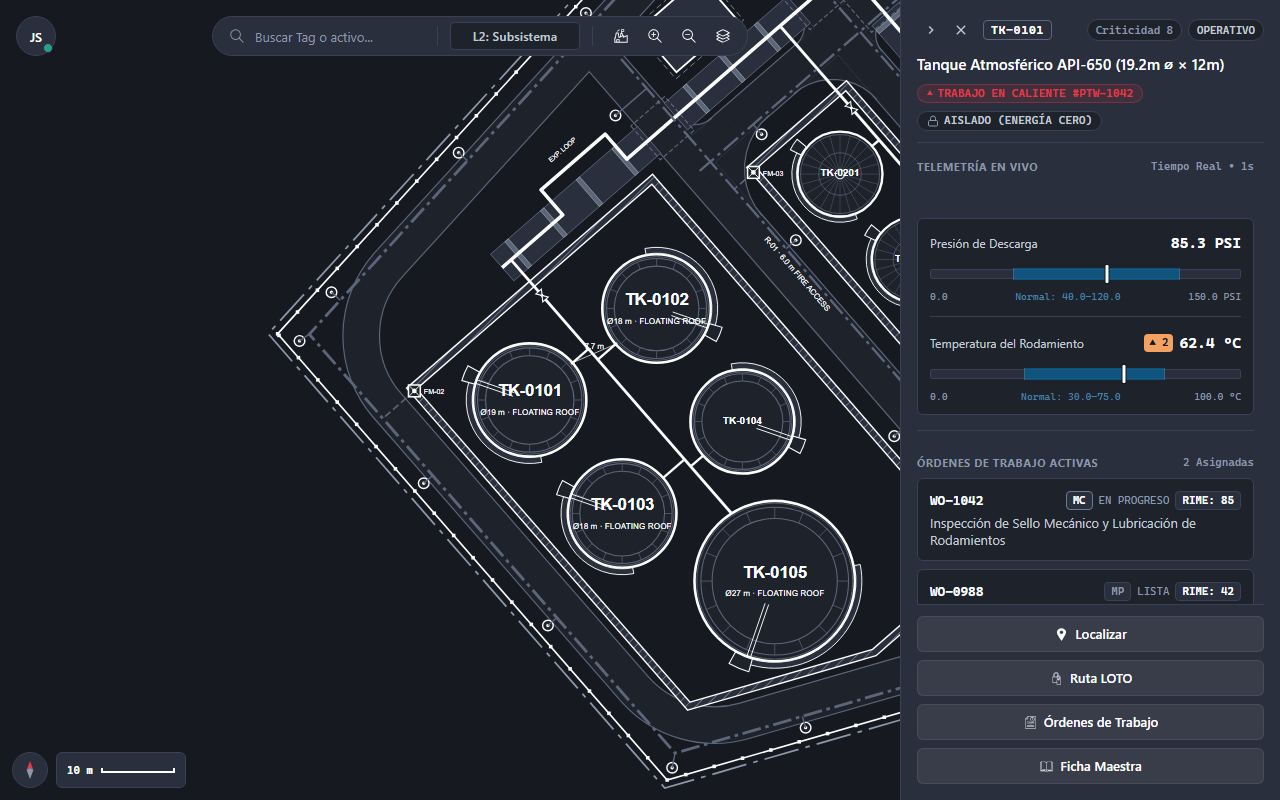
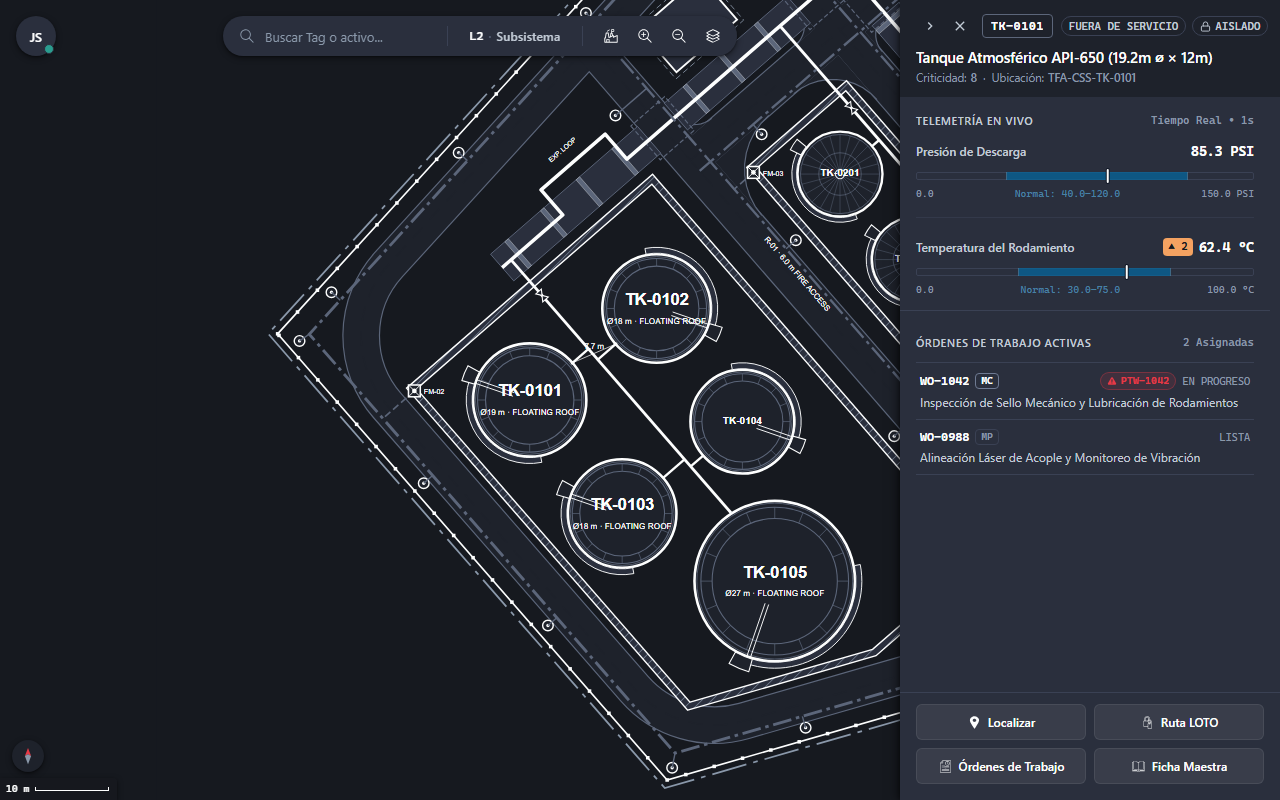
docs(ui-ux): synchronize SCR-VIS-033 specification, elevation tokens, and visual assets

diff --git a/ui-ux/assets/tokens.css b/ui-ux/assets/tokens.css
@@ -117,6 +117,7 @@
   --dt-radius-md: 6px;
   --dt-radius-lg: 8px;
   --dt-radius-xl: 12px;
+  --dt-radius-2xl: 20px;
   --dt-radius-full: 9999px;
 
   /* Z-index */
@@ -173,6 +174,10 @@
   --dt-color-state-info: var(--dt-primitive-blue-600);
   --dt-color-state-success: var(--dt-primitive-teal-700);
   --dt-color-state-disabled: var(--dt-primitive-gray-380);
+
+  /* Elevation Shadows (HUD Overlays & Floating Panels - Google Maps Crisp Tight Shadows) */
+  --dt-shadow-hud: 0 1px 4px rgba(0, 0, 0, 0.18), 0 1px 2px rgba(0, 0, 0, 0.08);
+  --dt-shadow-panel: -2px 0 8px rgba(0, 0, 0, 0.12), -1px 0 2px rgba(0, 0, 0, 0.06);
 }
 
 /* Dark theme semantic tokens */
@@ -220,6 +225,10 @@
   --dt-color-state-info: var(--dt-primitive-blue-450);
   --dt-color-state-success: var(--dt-primitive-teal-400);
   --dt-color-state-disabled: var(--dt-primitive-gray-580);
+
+  /* Elevation Shadows (HUD Overlays & Floating Panels - Google Maps Crisp Tight Shadows) */
+  --dt-shadow-hud: 0 2px 6px rgba(0, 0, 0, 0.45), 0 1px 2px rgba(0, 0, 0, 0.35);
+  --dt-shadow-panel: -3px 0 10px rgba(0, 0, 0, 0.50), -1px 0 3px rgba(0, 0, 0, 0.30);
 }
 
 /* Responsive layout overrides */

diff --git a/ui-ux/screens/vis/SCR-VIS-033.md b/ui-ux/screens/vis/SCR-VIS-033.md
@@ -44,17 +44,17 @@ status: Stable
 
 | ID | Control / Component | Visual Role / Content | Semantic Token | Architectural Role & Reference |
 | :------- | :---------------------- | :------------------------------- | :-------------------------------------------------------------------------------------------------- | :----------------------------------------------------------------------------------------------------------------------------------------------------------------------- |
-| `CMP-01` | Canvas Viewport 2D      | Interactive SVG vector canvas & Cartographic HUD | Surface: `--dt-color-bg-canvas`<br>HUD: `--dt-color-surface-card`                                  | Renders the SVG map of the functional area (ISA-101 Level 2) with embedded Cartographic HUD overlays (compass and metric scale bar). Spatial gestures, focal zoom, and HUD calibration are specified in §5.2. |
-| `CMP-02` | Viewport Toolbar        | Spatial navigation bar | Surface: `--dt-color-surface-card`<br>Radius: `--dt-radius-full`                                    | Unified floating pill toolbar centered over `CMP-01`. Integrates `CMP-03`, level badge, and viewer controls (Reset, zoom, layer selector). Layout rules in §5.2. |
+| `CMP-01` | Canvas Viewport 2D      | Interactive SVG vector canvas & Cartographic HUD | Surface: `--dt-color-bg-canvas`<br>HUD: `--dt-color-surface-card`<br>Shadow: `--dt-shadow-hud`   | Renders the SVG map of the functional area (ISA-101 Level 2) with embedded Cartographic HUD overlays (compass and metric scale bar with `--dt-shadow-hud` elevation). Spatial gestures, focal zoom, and HUD calibration are specified in §5.2. |
+| `CMP-02` | Viewport Toolbar        | Spatial navigation bar | Surface: `--dt-color-surface-card`<br>Shadow: `--dt-shadow-hud`<br>Radius: `--dt-radius-full`      | Unified floating pill toolbar centered over `CMP-01`. Elevated via `--dt-shadow-hud` (borderless). Integrates `CMP-03`, level badge, and viewer controls (Reset, zoom, layer selector). Layout rules in §5.2. |
 | `CMP-03` | Command Palette Trigger | Quick search access | Surface: `--dt-color-surface-base`<br>Border: `--dt-color-border-subtle`<br>Radius: `--dt-radius-full`    | Embedded pill search input within `CMP-02` (`Ctrl + K` / `/`). Supports fuzzy equipment tag search. |
 | `CMP-04` | Equipment Hotspot       | Equipment symbol in SVG | Border: `--dt-color-border-subtle`<br>Background: `--dt-color-bg-canvas` | Level 6 geometry linked by `TagNumber`. Neutral outline in normal state; alarm conditions trigger halo and severity shapes per [DT-UI-DS-DOC-001](../../DT-UI-DS-DOC-001.md). |
-| `CMP-05` | Context Container       | Level 3 Equipment Task Faceplate | Surface: `--dt-color-surface-drawer`<br>Border: `--dt-color-border-panel` | Adaptable contextual container (lateral panel in landscape/desktop, bottom sheet in portrait/mobile). Hosts Level 3 operational blocks (`CMP-06` to `CMP-10`). Lifecycle, docking, dimensions, and gesture mechanics are specified in §5.2. |
-| `CMP-06` | Asset Header Block      | Identification and status | Surface: `--dt-color-surface-card`<br>Tag: `--dt-font-mono-data` | Presents TagNumber, technical description, criticality rating, and operational status. Detailed in §5.3 and §7.2.5. |
+| `CMP-05` | Context Container       | Level 3 Equipment Task Faceplate | Surface: `--dt-color-surface-card`<br>Shadow: `--dt-shadow-panel` | Adaptable contextual container (lateral panel in landscape/desktop with `--dt-shadow-panel`, bottom sheet in portrait/mobile). Hosts Level 3 operational blocks (`CMP-06` to `CMP-10`). Preserves scrollbar gutter (`scrollbar-gutter: stable`). Lifecycle, docking, dimensions, and gesture mechanics are specified in §5.2. |
+| CMP-06 | Asset Header Block      | Identification and status | Surface: --dt-color-surface-base<br>Tag: --dt-font-mono-data<br>Radius: --dt-radius-2xl (Portrait) | Presents TagNumber, technical description, criticality rating, and operational status. Integrates capsule drag handle as first child in portrait mode. Detailed in §5.3 and §7.2.5. |
 | `CMP-07` | Live Telemetry Block    | MAI analog indicators | `--dt-color-mai-*`                                                                                  | Moving Analog Indicators (MAI) contextualizing process variables within calibrated normal operating zones and trip limits ([DT-UI-DS-DOC-001 §6.1](../../DT-UI-DS-DOC-001.md#61-moving-analog-indicator-mai-specification)). Dynamic SignalR update rules specified in §5.3. |
 | `CMP-08` | Safety Context Summary  | Safety boundaries summary | [DT-UI-DS-DOC-001 §6.2](../../DT-UI-DS-DOC-001.md#62-redundant-coding-matrix-for-permits-and-loto) | Summary badges of active PTW permit number and verified LOTO isolation tags applying mandatory redundant coding. |
-| `CMP-09` | Quick Action Buttons    | Primary actions button panel | Surface: `--dt-color-surface-base`<br>Text: `--dt-color-text-primary`                           | Primary tactical action buttons for asset localization and cross-screen drill-down. Action routing detailed in §5.3.5. |
+| `CMP-09` | Quick Action Buttons    | Tactical action button panel | Surface: `--dt-color-surface-btn-secondary`<br>Border: `--dt-color-border-hairline`<br>Shadow: `--dt-shadow-hud` (Portrait) | Tactical action buttons for asset localization and cross-screen drill-down. 2x2 grid in landscape; 4-column row over transparent footer dock with `--dt-shadow-hud` elevation in portrait. Action routing detailed in §5.3.5. |
 | `CMP-10` | Actionable Work Orders  | Active maintenance tasks list | Surface: `--dt-color-surface-base`<br>Border: `--dt-color-border-subtle`                            | Compact list of active work orders showing WO ID, Type (PM/CM), Status, and Priority Score. Replaces un-actionable raw counters. |
-| `CMP-11` | User Profile Indicator  | Current user session access | Surface: `--dt-color-surface-card`<br>Border: `--dt-color-border-panel`<br>Radius: `--dt-radius-full` | Independent circular floating button anchored at the top-left of the viewport. Displays active user initials. Click/Tap opens user settings and session management. |
+| `CMP-11` | User Profile Indicator  | Current user session access | Surface: `--dt-color-surface-card`<br>Shadow: `--dt-shadow-hud`<br>Radius: `--dt-radius-full`     | Independent circular floating button anchored at the top-left of the viewport. Elevated via `--dt-shadow-hud` (borderless). Displays active user initials. Click/Tap opens user settings and session management. |
 
 ---
 
@@ -88,13 +88,16 @@ status: Stable
    - Direct search selection (`CMP-03`) or pressing `[Locate on Map]` in `CMP-09` smoothly animates the SVG viewport (pan and zoom to Level 2 tactical inspection scale governed by `--dt-zoom-scale-tactical` per [DT-UI-DS-DOC-001 §2.5](../../DT-UI-DS-DOC-001.md#25-spatial-navigation-and-semantic-zoom-tokens-ansiisa-10101-viewports)) centering the asset's centroid $(X, Y)$ within the unoccluded canvas workspace. In landscape orientations with the lateral drawer deployed, the centering target offsets leftward by half the drawer width to prevent occlusion. Activates a high-visibility SVG pulsing highlight halo.
 4. **Decoupled Viewport & Zero Layout Shift:**
    - `CMP-01` (Canvas) functions as a continuous, full-viewport layer. Deployment, minimization, or expansion of `CMP-05` (Context Container) operates as an absolute overlay that does not redimension or re-render the vector canvas, guaranteeing zero layout shift on the map and preventing SVG DOM thrashing or SignalR re-render latency.
+   - Enforces `scrollbar-gutter: stable;` on `.drawer-content` within `CMP-05`, permanently reserving scrollbar track width along the lateral edge to prevent content reflow or horizontal jumping when vertical scrollbars appear during faceplate height dragging.
 5. **Tactile Controllability:** The `CMP-05` container toggles its states via an upper graphic trigger that inherits the tactile size of `--dt-touch-target-mobile`.
 6. **Responsive Layout & Container Dimensions:**
-   - Viewport breakpoint boundaries, container widths, drawer elevation, and responsive adaptations between desktop workstations, tablet landscape, and tablet portrait are specified in Section 8.
+   - Viewport breakpoint boundaries, container widths, drawer elevation (`--dt-shadow-panel`), and responsive adaptations between desktop workstations, tablet landscape, and tablet portrait are specified in Section 8.
    - Sliding container mechanics and touch gestures are governed by [DT-UI-DS-DOC-001 §6.3](../../DT-UI-DS-DOC-001.md#63-sliding-containers-pattern-bottom-sheets-and-drawers) and [DT-UI-NAV-DOC-001](../../DT-UI-NAV-DOC-001.md).
 7. **Overlay Drawer Lifecycle (Minimize vs Deselect):** When minimized via the chevron trigger, `CMP-05` retracts into a docked edge state leaving a protruding arrow/header peek trigger (`--dt-layout-bottom-sheet-peek-height`) that allows instant re-expansion while preserving the active telemetry subscription. Clicking the close button ('X') explicitly dismisses the container, clears the equipment selection highlight on the canvas, and returns the view to the neutral macro supervisory state.
 8. **Bottom Sheet Tactile Gestures & Snap Mechanics (Portrait / Mobile):**
    - **Initial Natural Content Height:** Upon selection, `CMP-05` opens hugging its natural content height (`--dt-layout-bottom-sheet-height-initial`), ensuring over $60\%$ of the screen remains unoccluded for spatial map inspection without forced expansion to maximum height.
+   - **Capsule Drag Handle & Unified Header:** The drag handle (--dt-radius-full) is nested as the first child of CMP-06 (.drawer-header, styled with --dt-color-surface-base and --dt-radius-2xl top curvature), preventing visual border seams between the handle zone and header metadata.
+   - **Elevated Tactical Buttons:** `CMP-09` renders in a 4-column row anchored inside a transparent footer dock (`background-color: transparent`, zero divider line), elevating each action button via `--dt-shadow-hud` without occluding live telemetry or work order data.
    - **Continuous Height Dragging:** Dragging upwards via the upper tactile drag handle allows continuous adjustment up to maximum ceiling (`--dt-layout-bottom-sheet-height-expanded`). Upon release, the container retains the custom dragged height to facilitate simultaneous inspection of process telemetry and work orders.
    - **Hysteresis & Snap-Back Threshold:** Pulling downward slightly ($< 100\text{px}$ or height above minimum operational threshold) smoothly snaps back to the natural layout height, preventing accidental collapses caused by minor contact or industrial glove swipes.
    - **Smooth Minimize Transition:** Pulling downward firmly past the minimize threshold ($> 100\text{px}$ pull) smoothly translates the container into the docked peek tab (`--dt-layout-bottom-sheet-peek-height`) without upward bounce or layout oscillation.

diff --git a/ui-ux/DT-UI-DS-DOC-001.md b/ui-ux/DT-UI-DS-DOC-001.md
@@ -231,9 +231,19 @@ Typography is defined under a dual model: high-availability native fonts in the 
 ---
 
 ## 5. Elevation, Borders and Depth Tokens
-To comply with the HPHMI philosophy in dark interfaces, depth is not expressed through decorative or diffuse shadows, but through normative **surface color differentiation and subtle borders**.
 
-### 5.1. Border Radii
+### 5.1. HPHMI Shadow Discipline: Canvas vs. HUD Chrome Separation
+To comply with the High-Performance HMI (ANSI/ISA-101.01 / Hollifield) philosophy and ISO 9241-110 ergonomic principles:
+1. **Process Graphics Canvas ($Z = 0$):** Strictly prohibited. Mimic elements (equipment, tanks, pipes, instruments, and CAD vector geometry) must remain 100% flat 2D. Decorative drop-shadows, gradients, or 3D skeuomorphic bevels on process elements are forbidden to prevent visual clutter and protect alarm salience.
+2. **Floating Viewport Chrome & Overlays ($Z \ge 100$):** Soft ambient elevation shadows (`--dt-shadow-hud`, `--dt-shadow-panel`) are normative per the **Gestalt Law of Figure-Ground Separation**. Floating toolbars, docked lateral panels, and HUD instruments project subtle elevation shadows to cleanly decouple interactive controls from dense underlying CAD vector lines without requiring harsh high-contrast dividing borders.
+
+### 5.2. Elevation Shadows
+| Token | Light Theme Value | Dark Theme Value | Component Application |
+| :------------------ | :------------------------------------------------------------------ | :------------------------------------------------------------------ | :------------------------------------------------------------------------------------------------- |
+| `--dt-shadow-hud`   | `0 1px 4px rgba(0, 0, 0, 0.18), 0 1px 2px rgba(0, 0, 0, 0.08)`     | `0 2px 6px rgba(0, 0, 0, 0.45), 0 1px 2px rgba(0, 0, 0, 0.35)`    | Floating top toolbar (`CMP-02`), user profile button (`CMP-11`), compass and scale HUD (`CMP-01`). |
+| `--dt-shadow-panel` | `-2px 0 8px rgba(0, 0, 0, 0.12), -1px 0 2px rgba(0, 0, 0, 0.06)`  | `-3px 0 10px rgba(0, 0, 0, 0.50), -1px 0 3px rgba(0, 0, 0, 0.30)` | Docked lateral inspection faceplate (`CMP-05`) separating cleanly from canvas without border lines. |
+
+### 5.3. Border Radii
 | Token | Value (px) | Component Application |
 | ---------------- | ---------- | -------------------------------------------------------------- |
 | --dt-radius-none | 0px        | 2D map canvas, full-bleed mobile containers.           |
@@ -241,9 +251,10 @@ To comply with the HPHMI philosophy in dark interfaces, depth is not expressed t
 | --dt-radius-md   | 6px        | Text fields (InputText), selectors, standard buttons.     |
 | --dt-radius-lg   | 8px        | Information cards (Cards), side panels, dropdowns. |
 | --dt-radius-xl   | 12px       | Modal windows, LOTO lockout dialogs.                    |
+| --dt-radius-2xl  | 20px       | Bottom sheet sliding containers, tactile drawer headers. |
 | --dt-radius-full | 9999px     | Pill-shaped controls, floating toolbars, search bars.   |
 
-### 5.2. Layers and Stacking Levels (Z-Index Hierarchy)
+### 5.4. Layers and Stacking Levels (Z-Index Hierarchy)
 | Z-Index Token          | Value | Assigned Elements                                                  |
 | ---------------------- | ----- | -------------------------------------------------------------------- |
 | --dt-z-canvas          | 0     | SVG vector base layer (Floor plan).                           |
